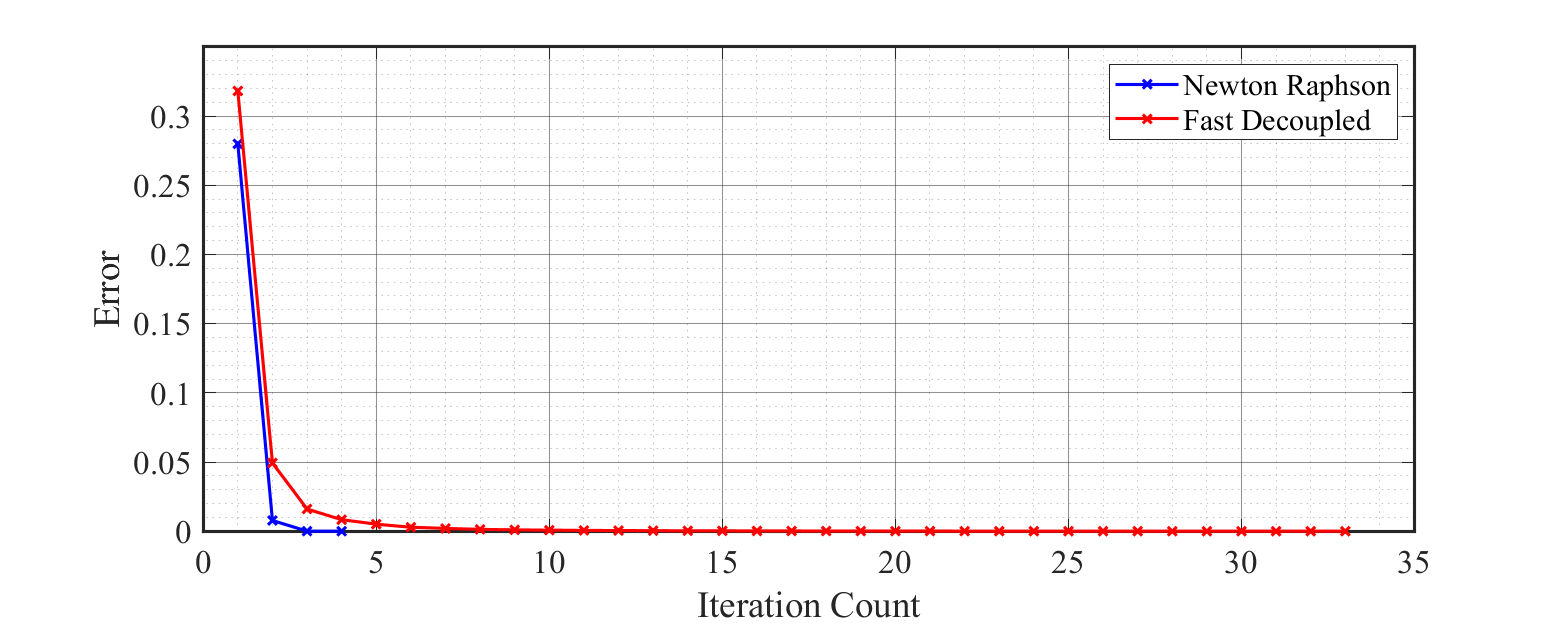
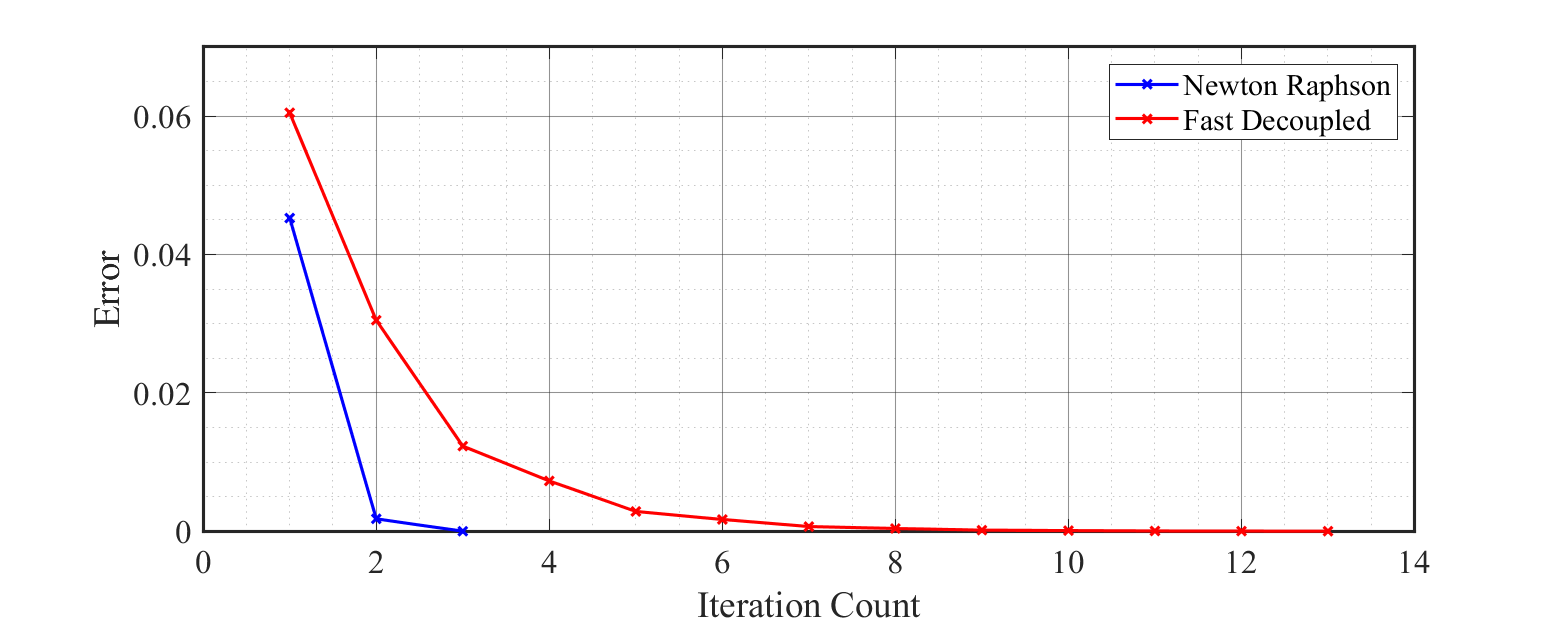
3 bus system added

diff --git a/Program_3/bus_calc.m b/Program_3/bus_calc.m
@@ -9,7 +9,7 @@ clear all; close all;
 n_bus = 3;
 bus_data = importdata('3bus.txt').data;
 branch_data = importdata('3branch.txt').data;
-   
+
 % Ybus formation
 t = 1; % 0 for without tap, 1 for with tap
 Y = y_bus_calc(n_bus,bus_data,branch_data,t);
@@ -24,19 +24,30 @@ pv_i = find(bus_data(:,3) == 2);
 pq_i = find(bus_data(:,3) == 0);
 n_pv = length(pv_i);
 n_pq = length(pq_i);
+fr = branch_data(:,1);
+to = branch_data(:,2);
+n_br = length(fr);
+
+B = branch_data(:,9);
 
 % Initializing Voltage magnitude and angles
 V = bus_data(:,11);
 V(find(V(:)==0)) = 1;
 T = zeros(n_bus,1);
 
-[V1_data,T1_data,T1] = NR(bus_data,V,T,P_inj,Q_inj,n_bus,Y,n_pq,pq_i);
-V_data = V1_data;
-T_data = T1_data;
-[V2_data,T2_data,T2] = FD(bus_data,V,T,P_inj,Q_inj,n_bus,Y,n_pq,pq_i);
+[V_data,T_data,T1] = NR(bus_data,V,T,P_inj,Q_inj,n_bus,Y,n_pq,pq_i);
 
 % P,Q calculation after convergence
-[P,Q] = PQ_calc(V_data(:,size(V_data,2)),T_data(:,size(T_data,2)),Y)
+[P,Q] = PQ_calc(V_data(:,size(V_data,2)),T_data(:,size(T_data,2)),Y);
 
-% plotting convergence curves
-mplot([1:size(V1_data,2)],T1,[1:size(V2_data,2)],T2)
+
+for j = 2:size(V_data,2)
+    temp1 = PQ_calc(V_data(:,j-1),T_data(:,j-1),Y)
+    temp2 = PQ_calc(V_data(:,j),T_data(:,j),Y)
+    temp2-temp1
+end
+
+% calculating line power flows
+[Pij Pji Qij Qji] = PQline_calc(V_data(:,size(V_data,2)),T_data(:,size(T_data,2)),Y,n_br,fr,to,B);
+
+[V_data,T_data,T1] = FD(bus_data,V,T,P_inj,Q_inj,n_bus,Y,n_pq,pq_i);

diff --git a/Program_3/FD.m b/Program_3/FD.m
@@ -1,0 +1,30 @@
+function [V_data,T_data,Tol_data] = FD(bus_data,V,T,P_inj,Q_inj,n_bus,Y,n_pq,pq_i)
+% Initializing index
+B = imag(Y);
+B_T =  - B(2:n_bus,2:n_bus);
+B_V = - B(pq_i,pq_i);
+i = 0;
+Tol = 1;
+del_T = zeros(n_bus,1);
+del_V = zeros(n_bus,1);
+
+% Iteration loop
+while(Tol > 1e-4 & i < 100)
+    i = i+1;
+    V = V+del_V;
+    T = T+del_T;
+    T_data(:,i) = T;
+    V_data(:,i) = V;
+    [del_P, del_Q] = dpdq_calc(bus_data,V,T,P_inj,Q_inj,n_bus,Y);
+    P_T = del_P'./V(2:n_bus);
+    d_T = fwd_bwd(B_T,P_T);
+    Q_V = del_Q'./V(pq_i);
+    d_V = fwd_bwd(B_V,Q_V);
+    del_T = [0 d_T]'; % angle calculation
+    for j = 1:n_pq
+        del_V(pq_i(j)) = d_V(j); % magnitude calculation
+    end
+    Tol = max(abs([del_T; del_V]));
+    Tol_data(i) = Tol;
+end
+end

diff --git a/Program_1/NR.m b/Program_1/NR.m
@@ -1,7 +1,7 @@
 function [V_data,T_data,Tol_data] = NR(bus_data,V,T,P_inj,Q_inj,n_bus,Y,n_pq,pq_i)
 % Initializing index
 i = 0;
-Tol = 1;
+Tol = 1e-4;
 del_T = zeros(n_bus,1);
 del_V = zeros(n_bus,1);
 
